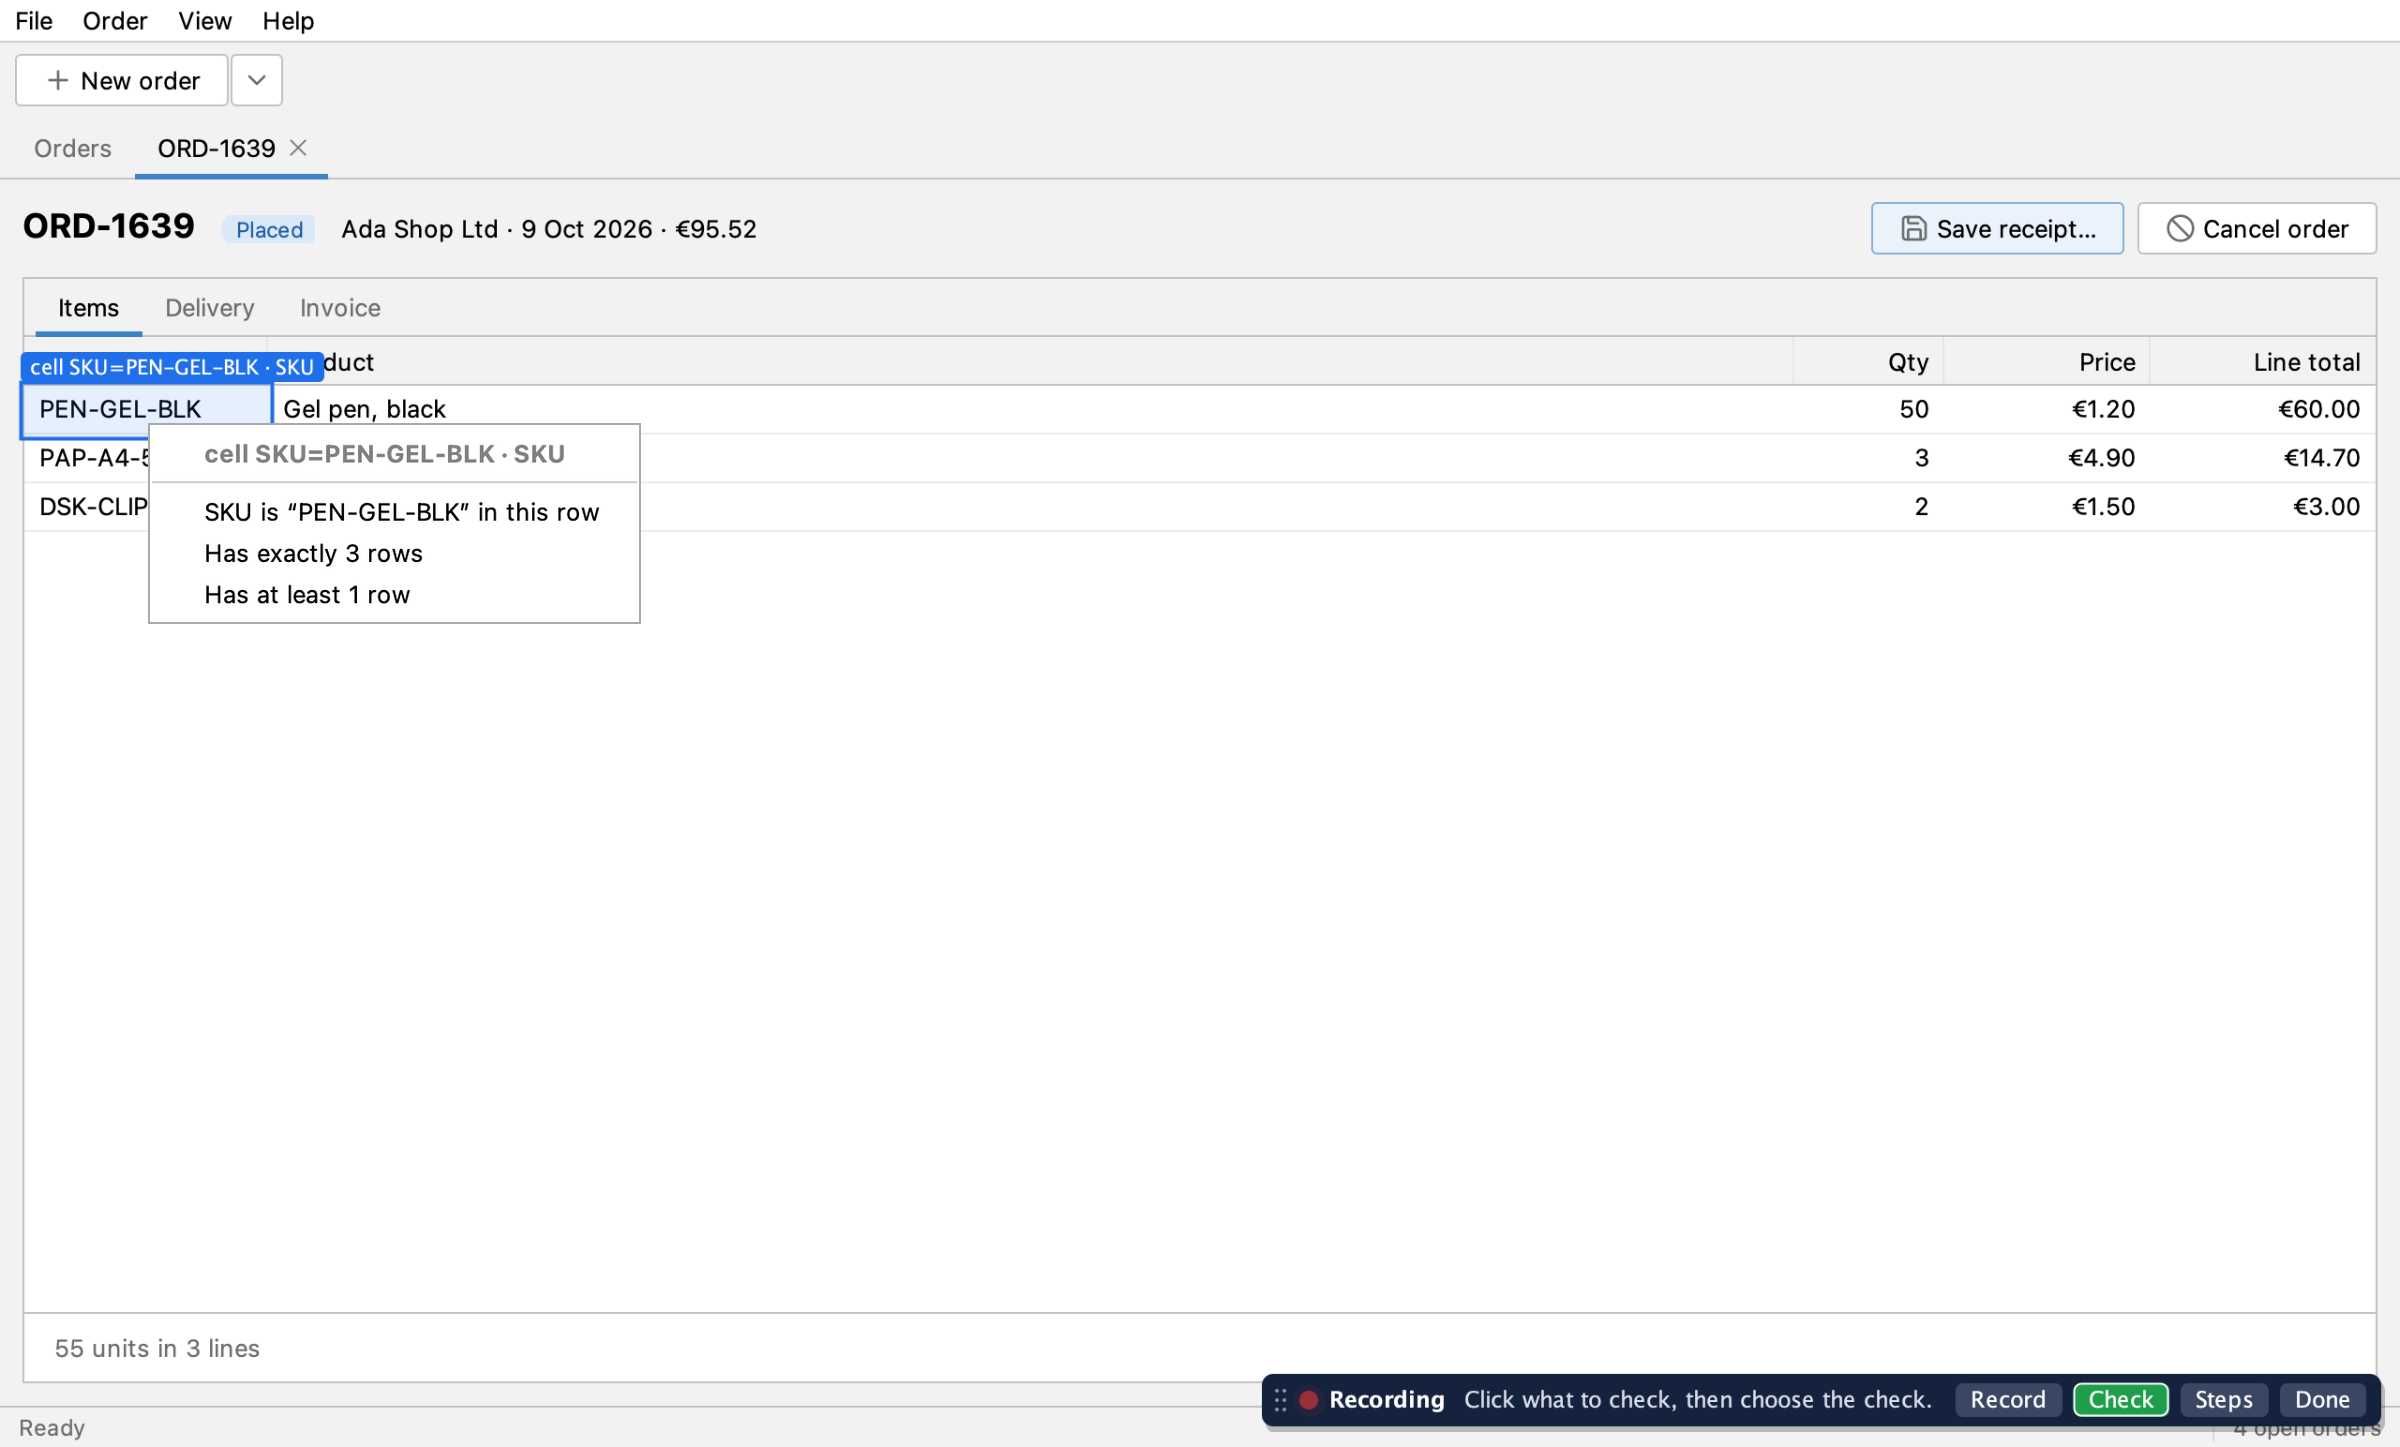
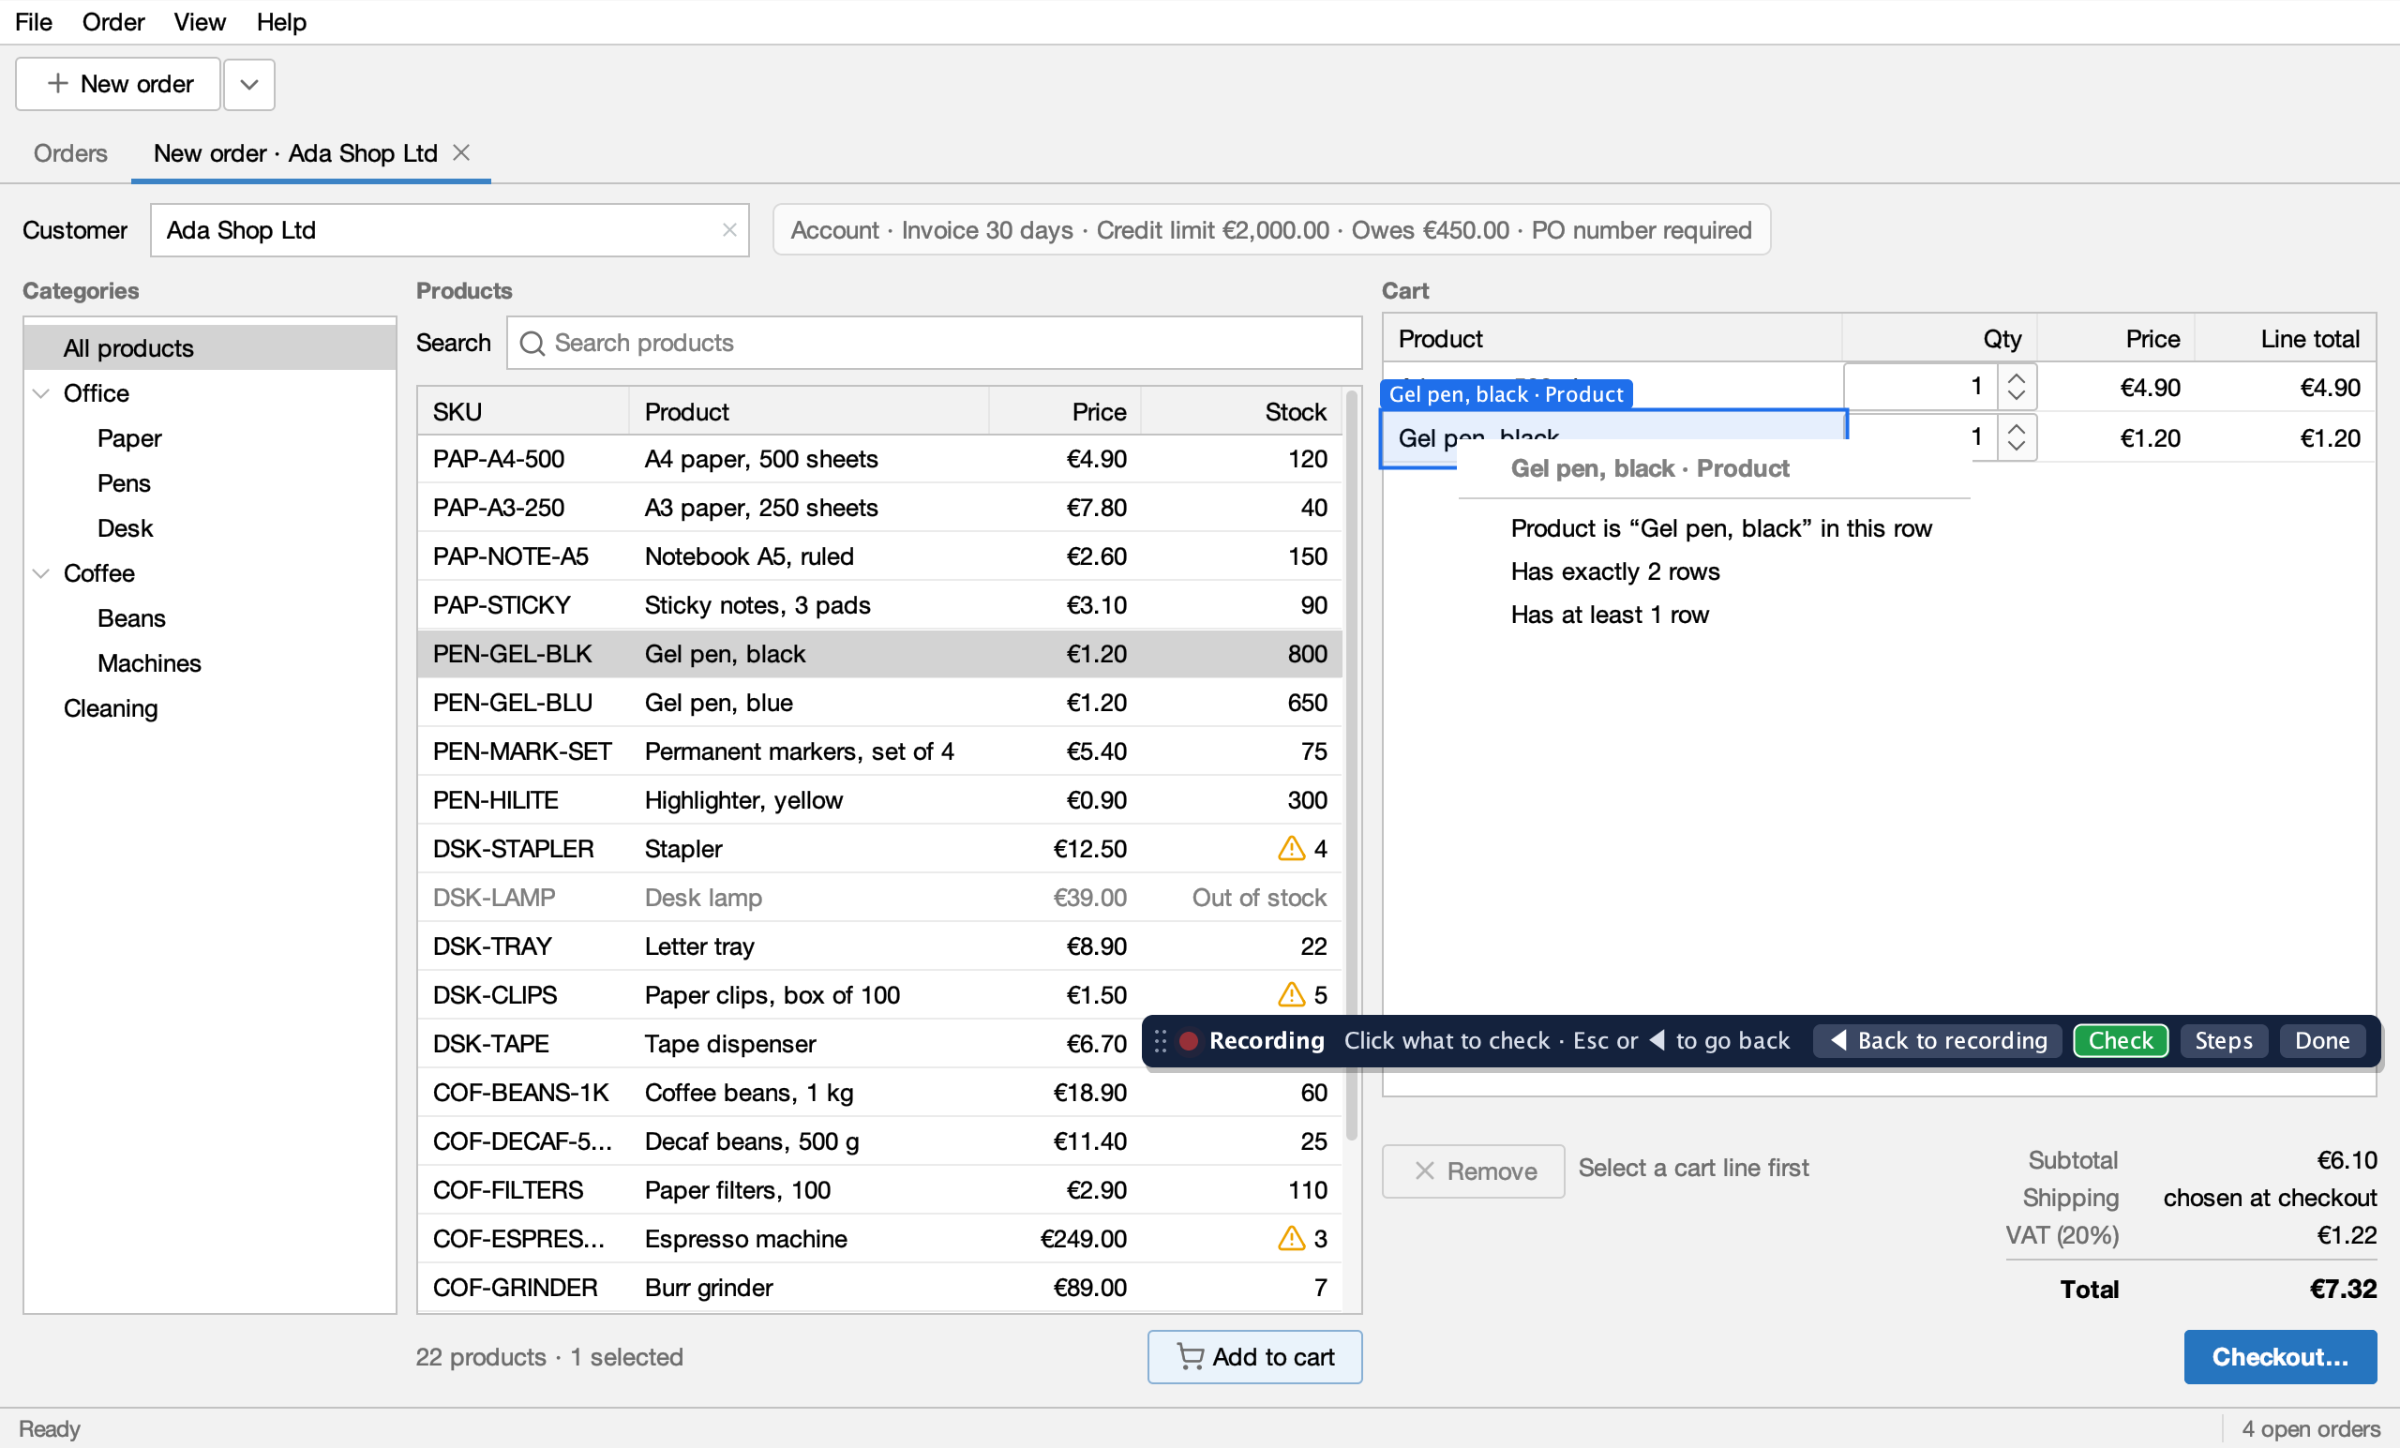
Site: Check menu with the short labels, and the Export panel opening on Recorded test

diff --git a/site/src/content/docs/start/show.md b/site/src/content/docs/start/show.md
@@ -64,7 +64,7 @@ comes back with a `startWarning`.
 Press **Check**. The bar says "Click what to check · Esc or ◀ to go back." Clicks now go to the palette, not to the
 app. Click an element and pick a check built from what it shows right now.
 
-![Check mode on an order's lines: the clicked SKU cell is boxed and a menu offers SKU is "PEN-GEL-BLK" in this row, Has exactly 3 rows and Has at least 1 row](../../../assets/inspector/check-menu.png)
+![Check mode on the cart: the gel pen's Product cell is boxed and labelled Gel pen, black · Product, and a menu offers Product is "Gel pen, black" in this row, Has exactly 2 rows and Has at least 1 row](../../../assets/inspector/check-menu.png)
 
 Which checks you get depends on the element:
 
@@ -115,6 +115,8 @@ for a class name ending in `UiIT` and a package, filled in with the app's own. T
 chose last. Press **Export**. The palette says where
 the file went, and when the first step does not get the app to a known screen it says that too. The recording stays,
 so you can still fix it and export again under another name. An existing file is never overwritten.
+
+![The Export panel over the cart: Recorded test chosen before Java test, a name and the uitest folder, and Cancel and Export buttons](../../../assets/inspector/export.png)
 
 **Or let the agent export it.** When your agent is waiting for you, Done hands it the recording. It exports the
 test, runs it from another screen and fixes the locators it flags, as in
